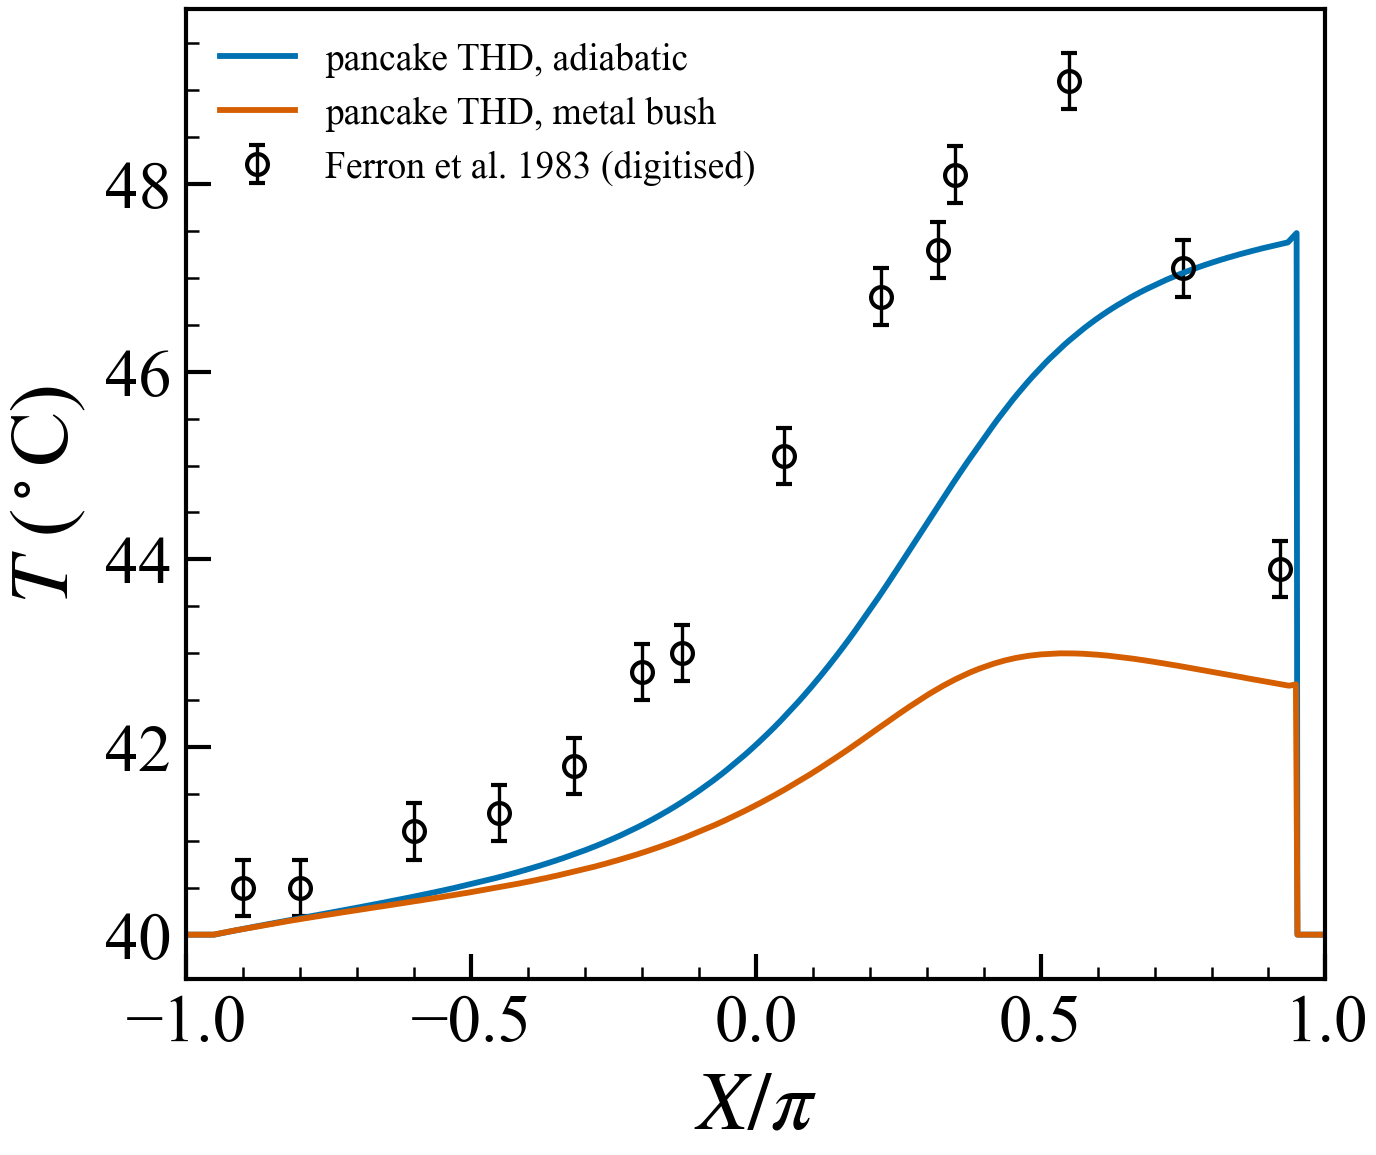
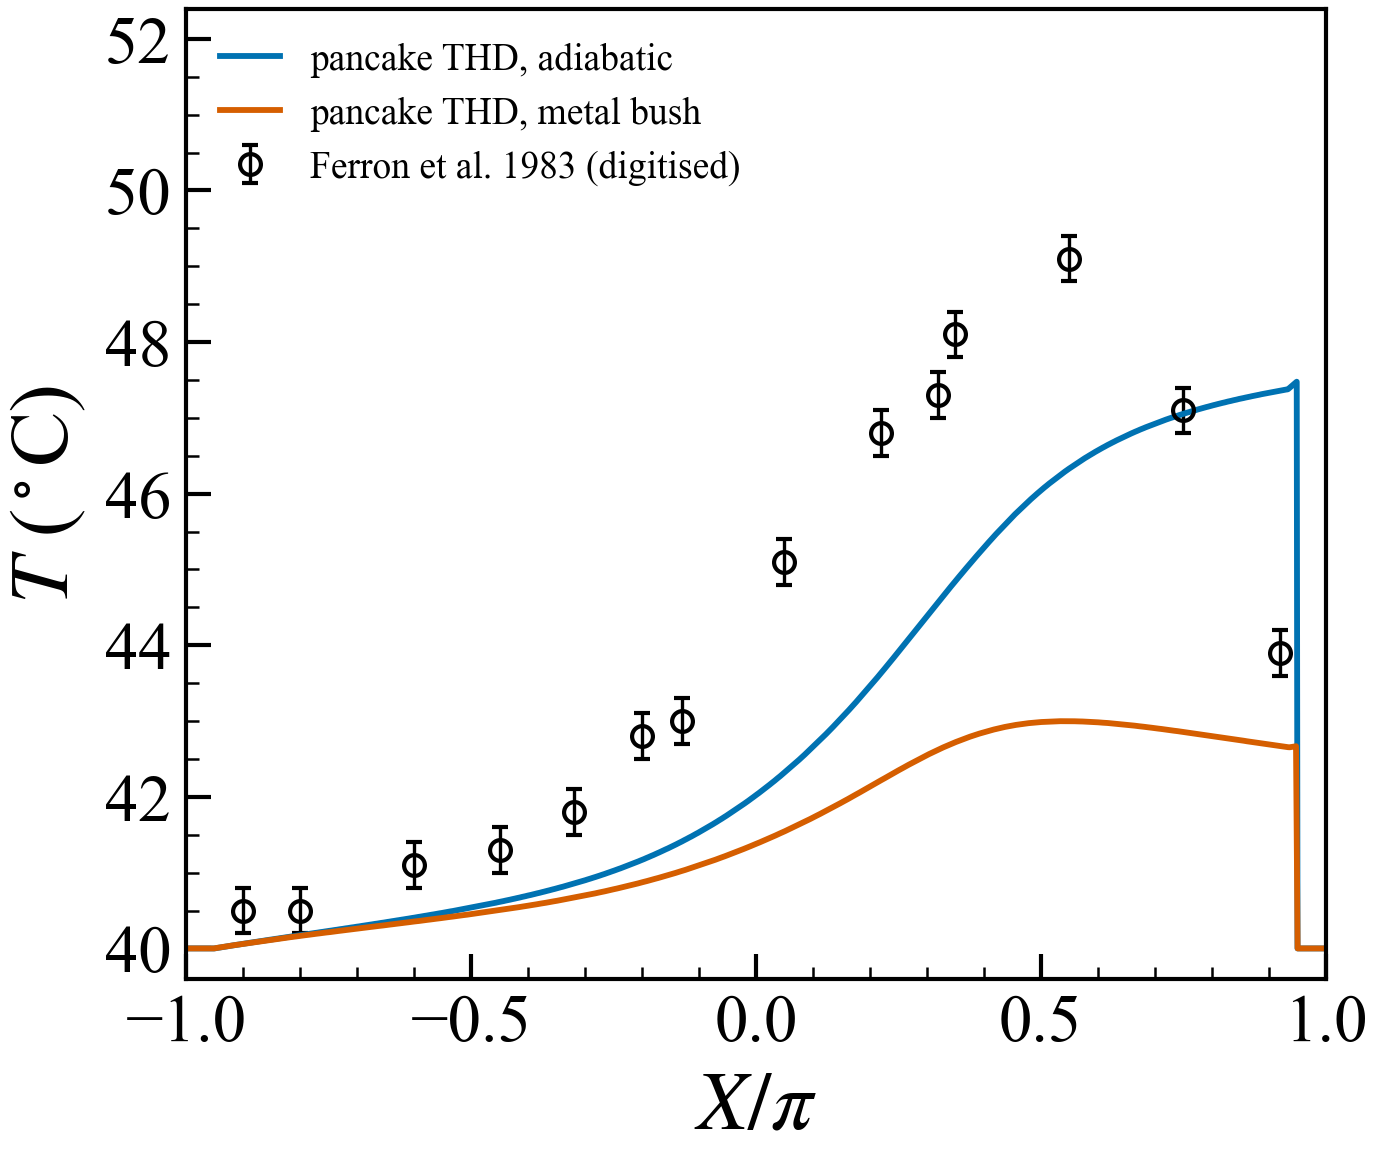
Bound the Ferron load error: rule out expansion and groove, size the inlet term
Follow-up on the 52-68% load over-prediction, and a retraction.

Retracted: clearance thermal growth was offered as the mechanism behind the
k = 0.553 pressure scale. The magnitudes do not work. With a bronze bush on a
steel shaft at R = 50 mm, the measured 9 K film rise gives 2.7 um of differential
growth (1.9% of clearance, 3.6% in pressure); reaching k = 0.553 needs the bush
56 K hotter than the shaft. Ruled out.

Also ruled out by measurement, not argument:
- groove placement: a 90 deg sweep moves the load 4.8% (3966-4155 N)
- groove width: 9/18/36 deg moves it 3%, settling Table 1's ambiguous "18 deg"
- mesh: 1.4% in peak pressure between 720x40 and 1440x60
- thermal treatment: adiabatic, metal-bush and isothermal agree on the
  eccentricity needed for 4 kN to within 0.02

Sized rather than asserted: the ~1.9 K of inlet hot-oil mixing that Alakhramsing
model and this setup omits is worth ~6% of load. Real, but a fifth of the margin
by which this solver exceeds their over-prediction. Closing the gap this way
would need a ~50 C inlet, above the hottest measured wall temperature.

Records that roughly half the discrepancy is shared with Alakhramsing's own FE
model (+20-30% against the same data), so it points at the experiment or at
common assumptions rather than a defect here.

Documents the wall heat-transfer model as bracketing rather than solving the
conjugate problem: Newton cooling to a prescribed constant wall temperature, no
[…]

diff --git a/validation/journal_bearing/plot_validation.py b/validation/journal_bearing/plot_validation.py
@@ -169,7 +169,10 @@ def fig_ferron_temperature(fr):
     ax.set_xlabel(r"$X/\pi$")
     ax.set_ylabel(r"$T$ ($^\circ$C)")
     ax.set_xlim(-1.0, 1.0)
-    ax.legend(frameon=False, fontsize=9, loc="upper left")
+    # Headroom so the legend does not sit among the measured points, where its
+    # own marker reads as one of them.
+    ax.set_ylim(39.6, 52.4)
+    ax.legend(frameon=False, fontsize=9, loc="upper left", handlelength=1.6)
     save_figure(fig, "validation_ferron_temperature")
     plt.close(fig)
 

diff --git a/validation/journal_bearing/README.md b/validation/journal_bearing/README.md
@@ -399,16 +399,38 @@ Not trustworthy:
 
 - **The location of the temperature peak.** Predicted at X/pi = +0.95, measured
   at +0.55 -- roughly 71 deg out. The predicted profile climbs monotonically to
-  the groove; the measurement peaks and then falls. Alakhramsing et al. report
-  exactly the same failure for their own model and attribute it to how heat
-  transport in the cavitated region is treated, so it is a limitation of 2-D THD
-  film models rather than something peculiar to pancake -- but it fails the
-  stated criterion that the peak be in the right place.
-- **The wall heat-transfer coefficient.** Not a prediction: it is an input the
-  answer is very sensitive to. Going from adiabatic to h = 5000 W/(m2.K) moves
-  the film rise from 7.48 K to 3.00 K and the temperature error from -1.6 K to
-  -6.1 K, while moving the peak pressure by only 1.2%. Temperature results
-  should be quoted with the assumed wall condition attached.
+  the groove; the measurement peaks and then falls. This is very likely a direct
+  consequence of the wall model, see below.
+- **The wall heat-transfer treatment, which can only bracket the real problem.**
+  `Energy::apply_wall_transfer` is Newton cooling to a *prescribed constant* wall
+  temperature:
+
+  ```
+  h_wall  = journal_heat_transfer + bearing_heat_transfer
+  T_wall  = (h_j T_journal + h_b T_bearing) / h_wall        <- a fixed constant
+  a_p    += h_wall A ;   source += h_wall A T_wall
+  ```
+
+  There is **no conjugate conduction** -- the bush and shaft never heat up -- and
+  **no circumferential averaging by the rotating shaft**. So the two cases run
+  here are both unphysical limits: `h = 0` is perfectly insulating walls, and
+  `h = 5000` with `T_wall` = 40 C is infinitely conducting walls that are also
+  infinite heat sinks pinned at the supply temperature. A real bush and shaft
+  warm toward the film and remove far less heat than a 40 C sink, which is why
+  adiabatic matches the magnitude (-1.6 K) and h = 5000 over-cools (-6.1 K).
+
+  This bears directly on the peak-location failure. With no shaft conduction
+  there is no mechanism to move heat *circumferentially against the flow*, so
+  film temperature can only accumulate downstream -- exactly the monotonic climb
+  to the groove that the figure shows. A shaft at 2000 rpm sees a circumferential
+  average and acts as a heat spreader, warming the inlet region and cooling the
+  outlet, which puts the peak inside the film. Ferron's own model includes shaft
+  conduction; this one cannot. Consistently, the metal-bush curve peaks at
+  X/pi ~ 0.5, close to the measured +0.55 -- the shape improves as soon as any
+  wall coupling exists, it just over-cools.
+
+  Temperature results from this solver should always be quoted with the assumed
+  wall condition attached.
 - **The isothermal bracket does not enclose the measurement.** The criterion was
   that isothermal must overpredict; it gives 1.2751 MPa against a measured
   1.29 +/- 0.03 MPa, falling 1.1% short. Within digitising uncertainty, but the
@@ -469,17 +491,68 @@ against a measured 1.29** -- a 2.8% match. One scalar fixes both.
 
 Since `p ~ mu omega R^2 / c^2`, that scale factor corresponds to a running
 clearance about 35% above the nominal 145 um, or an effective viscosity of
-0.0153 rather than 0.0277 Pa.s. Alakhramsing et al. name thermal growth of the
-clearance as an unmodelled source of discrepancy in exactly this comparison, and
-Ferron's bush is bronze on a steel shaft.
+0.0153 rather than 0.0277 Pa.s.
 
-**This is a hypothesis consistent with the data, arrived at after seeing it, not
-an independent confirmation, and it is not a licence to tune the clearance until
-the benchmark passes.** What it does establish is that the *shape* of the
-predicted field -- peak location, rupture location, profile form and thermal
-response -- is right, and that the disagreement is concentrated in one overall
-scale. Settling it needs a number from the primary Ferron paper (hot running
-clearance, or the measured eccentricity datum), which is paywalled.
+**Thermal growth of the clearance cannot supply it.** Alakhramsing name clearance
+thermal growth as an unmodelled source of discrepancy, and Ferron's bush is
+bronze (alpha ~ 18e-6 /K) on a steel shaft (~12e-6 /K), but the magnitudes do not
+work. With `dc = R (alpha_b dT_b - alpha_s dT_s)` at R = 50 mm:
+
+| case | dc | c | pressure scale |
+|---|---|---|---|
+| bush and shaft both at the measured 9 K rise | 2.7 um | 147.7 um | x0.964 |
+| bush 9 K hot, shaft at ambient | 8.1 um | 153.1 um | x0.897 |
+| bush 20 K hot, shaft at ambient | 18.0 um | 163.0 um | x0.791 |
+| **needed for k = 0.553** | **50.0 um** | **195 um** | — |
+
+Reaching k = 0.553 needs the bush 56 K hotter than the shaft, against a measured
+film rise of 9 K. The mechanism is ruled out; the empirical scale observation
+stands on its own.
+
+**Half the gap is shared with the reference model.** Reading Alakhramsing's own
+Figure 10a, their finite-element THD prediction over-predicts load by roughly
+20-30% against the same measurements, where this solver over-predicts by 52-68%.
+So a substantial part of the discrepancy is common to two independent solvers and
+points at the experiment or at assumptions both share, rather than at a defect
+here.
+
+One concrete difference in the remainder: their *predicted* wall temperature at
+the groove is about 41.9 C, not the 40 C supply temperature -- they model hot-oil
+carry-over into the inlet, whereas the groove here is pinned at supply. A colder
+film is a more viscous film and carries more load. Sizing it (eps = 0.5345,
+2000 rpm, adiabatic, viscosity reference held at 40 C where Ferron quotes mu_0):
+
+| effective inlet [C] | W [N] | vs 40 C | p_max [MPa] | T_max [C] | T_max X/pi |
+|---|---|---|---|---|---|
+| 40 | 3979 | —      | 1.1777 | 47.49 | +0.948 |
+| 42 | 3741 | -6.0%  | 1.1092 | 49.07 | +0.948 |
+| 45 | 3399 | -14.6% | 1.0126 | 51.47 | +0.948 |
+| 48 | 3101 | -22.1% | 0.9273 | 53.95 | +0.948 |
+
+So the ~1.9 K of inlet mixing that Alakhramsing model and this setup does not
+accounts for about **6%** of load -- a real contributor, but roughly a fifth of
+the 25-35% by which this solver exceeds *their* over-prediction, and a small
+fraction of the 52-68% total. Closing the whole gap this way would need an
+effective inlet near 50 C, which exceeds the highest measured wall temperature
+(49.1 C) and is not physical for an inlet.
+
+Note also that **the temperature-peak location does not move at all** across the
+sweep (X/pi = +0.948 in every case). The inlet treatment is therefore ruled out
+as its cause, which leaves the missing conjugate/shaft conduction discussed
+under Verdict 2.
+
+**Warning for anyone repeating this.** The first attempt at this sweep raised
+`property_reference_temperature` along with the supply temperature, which
+re-defines `mu_0 = 0.0277 Pa.s` *at each new temperature* and silently cancels
+the effect being measured -- it produced a 0.4% load change over the same 8 K,
+against the true 22%. The viscosity reference must stay at the temperature where
+`mu_0` is quoted.
+
+What all of this establishes is that the *shape* of the predicted field -- peak
+location, rupture location, profile form and thermal response -- is right, and
+the disagreement is concentrated in one overall scale whose cause is not yet
+identified. Settling it needs numbers from the primary Ferron paper (hot running
+clearance, the eccentricity datum, or the inlet mixing model), which is paywalled.
 
 ## Limitations that bound what any of this can show
 

diff --git a/PLAN.md b/PLAN.md
@@ -47,6 +47,29 @@ Open — **VOID_COUPLED still does not converge and is not usable quantitatively
     substitute and is also unavailable. Independently, the reformation angle is
     not a prediction of this solver in either available inlet configuration, so
     that half of the target cannot be scored even with the data.
+- **Next validation targets, located and screened 2026-07-31.** Verdict 2 (energy
+  equation) currently rests on a single experiment, and the cavitation model has
+  no void-fraction test at all. Three reachable datasets close both gaps:
+  - **Brito et al., ASME J. Tribology 129(1), 2006, DOI 10.1115/1.2401206** —
+    open access at repositorium.sdum.uminho.pt. 100 mm plain bearing, bronze
+    bush, two axial grooves at ±90 deg to the load, diametral clearance
+    171 ± 5 um at 20 C. Measures mid-plane pressure, oil–bush interface
+    temperature, **oil–shaft interface temperature via a rotary joint**, flow
+    rate and bush torque, swept over speed to 4000 rpm, 2 and 10 kN, three
+    supply temperatures and three supply pressures. The shaft-side temperature
+    is the quantity pancake's fixed-wall energy model cannot produce and which
+    is the suspected cause of the Ferron temperature-peak error; the supply
+    sweep addresses the inlet-mixing difference against Alakhramsing; and the
+    clearance is quoted diametrally with tolerance and reference temperature,
+    removing the ambiguity Ferron leaves. Full text verified, not just screened.
+  - **Brito, PhD thesis, U. Minho 2009, hdl:1822/9884** — open access, likely
+    the tabulated dataset behind the above.
+  - **Engels et al., Lubricants 13(1), 2024, DOI 10.3390/lubricants13010007** —
+    open access, **experimental void fraction** in a hydrodynamic bearing. This
+    is the quantity the Elrod model actually predicts, and the gap Cole & Hughes
+    was meant to fill. Screened by abstract only.
+  Lund & Tonnesen 1984 (ASME 106(2):237) remains the other V6 target and is
+  cited by Brito as the key prior two-groove work; not open access.
 - **Elrod free-boundary accuracy depends on `p_max/bulk_modulus`.** Because
   pressure is carried inside the film content, the rupture angle can be 20 deg
   wrong at `beta = 1e9` on a 720-cell mesh while every convergence indicator
